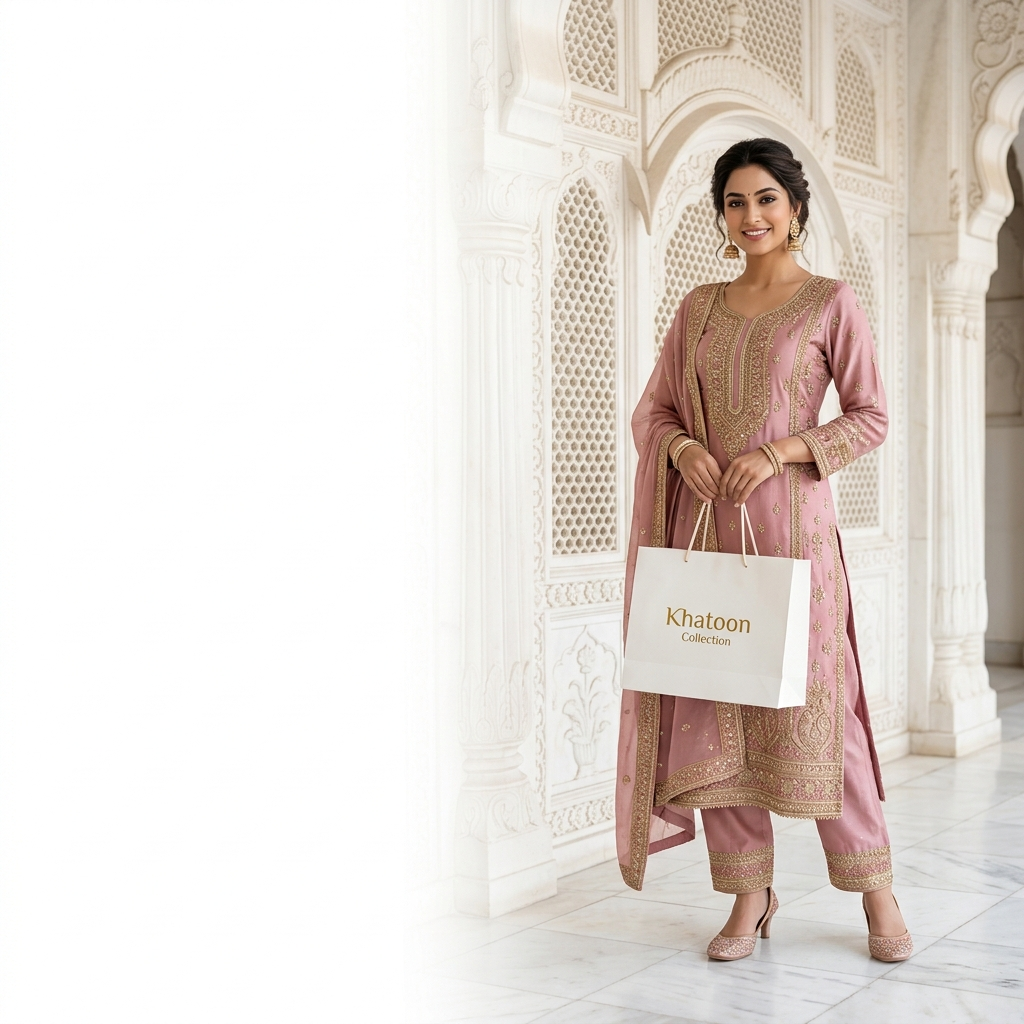
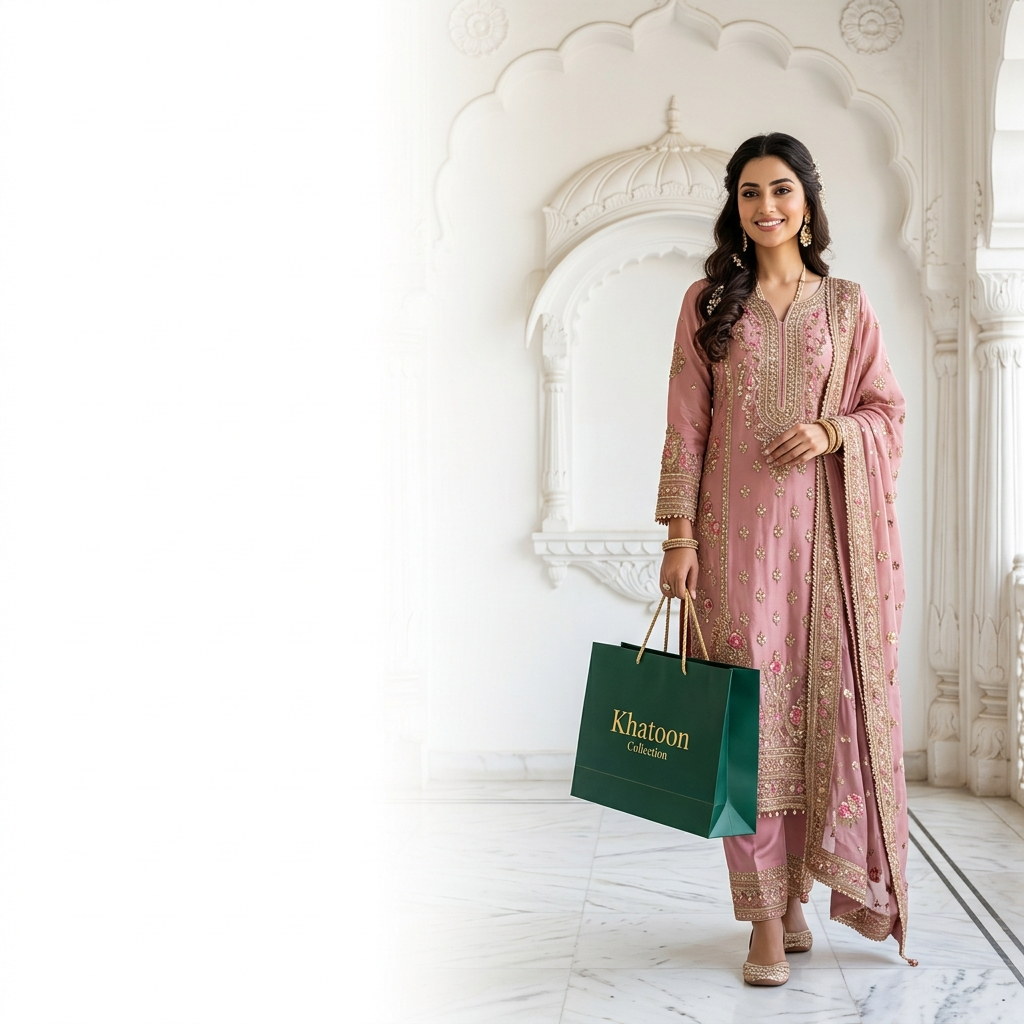
feat: add emerald green bag option and introduce a second full-frame detailed desktop hero slider

diff --git a/components/HomeSlider.tsx b/components/HomeSlider.tsx
@@ -225,6 +225,10 @@ export default function HomeSlider({ initialData }: { initialData?: any }) {
       {
         imageUrl: "/slider/khatoon_desktop_banner_clean.png",
         ctaHref: "/products",
+      },
+      {
+        imageUrl: "/slider/khatoon_desktop_banner_full.png",
+        ctaHref: "/products",
       }
     ];
   }, [isMobile, desktopSlides, mobileSlides, error]);
